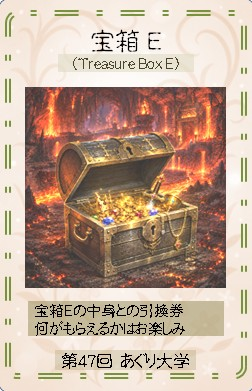
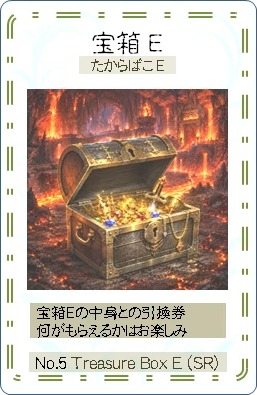
Open the treasure series and reward every 15 total login days
- Replace the treasure series card images with the new designs and add
  the chain spear card; boxes A-E are now SR and still give a ticket.
- The treasure series unlocks once two regular series are complete
  (not shown on the page) and stays open after that, with an unlock
  effect. The special skill series gets the same effect when boxes A-E
  are collected, and its unlock condition stays hidden.
- Count total login days and give one ticket every 15 days, shown in the
  login effect and the login note.

Rebuilt from the work in https://claude.ai/code/session_01QQwYBhyj5JkK6hfmZY1aA1,
which could not be pushed from there.

Claude-Session: https://claude.ai/code/session_01CyxEtkSZ8EztufXKaq5MJt

diff --git a/index.html b/index.html
@@ -613,18 +613,22 @@ window.addEventListener("error", e => showError(e.message));
 window.addEventListener("unhandledrejection", e => showError(String(e.reason && e.reason.message || e.reason)));
 const BOXES = ["boxa", "boxb", "boxc", "boxd", "boxe"];
 const boxesSealed = () => !!seriesOf.treasure.hidden;
+// 宝箱シリーズの解放条件: ふつうのシリーズを2つ以上コンプリートする(画面では明かさない)。
+// 一度解放したら treasureOpen を記録して、交換でカードが減っても閉じない
+const TREASURE_KEYS = ["work", "plant", "insect", "cow", "rebun"];
+const TREASURE_NEED = 2;
 const SERIES = [
   { id: "work",  name: "農作業", back: "back_work2" },
   { id: "plant", name: "植物", back: "back_plant_v2" },
   { id: "insect", name: "昆虫", back: "back_insect_v2" },
   { id: "cow",   name: "牛", back: "back_cow_v2" },
   { id: "rebun", name: "礼文島", back: "back_plant_v2" },
-  // unlock: (state) => true になったシリーズだけがガチャに入る。条件は未定なので今は常に閉じている
+  // unlock: (state) => true になったシリーズだけがガチャに入る
   // hidden: 封印中。ガチャにも図鑑にも出さない(カードのデータと集めた記録は残す)
-  { id: "treasure", name: "宝箱", back: "back_cow_v2", hidden: true },
-  // 宝箱A〜Eをすべて集めると解放される(宝箱は封印中)。特殊スキルガチャチケットでも引ける(取り方は画面では明かさない)
+  { id: "treasure", name: "宝箱", back: "back_cow_v2", unlock: st => !!st.treasureOpen, hint: "" },
+  // 宝箱A〜Eをすべて集めると、ふだんのガチャにも出るようになる。特殊スキルガチャチケットでも引ける(どちらも画面では明かさない)
   { id: "skill", name: "特殊スキル", back: "back", unlock: st => !boxesSealed() && BOXES.every(id => st.counts[id]),
-    get hint() { return boxesSealed() ? "" : `宝箱A〜Eをすべて集めると解放されます（あと${BOXES.filter(id => !state.counts[id]).length}種類）`; } },
+    hint: "" }, // 解放条件は画面では明かさない
 ];
 const CARDS = [
   { s: "work",  id: "plough",    name: "耕起1",     en: "Ploughing",           r: "N",   eff: "収量+10・メンタル−20・低温長雨回避C。春ターンのみ使える" },
@@ -695,19 +699,20 @@ const CARDS = [
   { s: "rebun", id: "rishiri_a",      name: "利尻富士（飛行機から）", en: "Rishiri-Fuji (A Ver.)", r: "R", eff: "成層火山・標高1721m・N45°10′ E141°15′" },
   { s: "rebun", id: "rishiri_r",      name: "利尻富士（礼文島から）", en: "Rishiri-Fuji (R Ver.)", r: "R", eff: "成層火山・標高1721m・N45°10′ E141°15′" },
   // ticket: 引くとチケットがもらえる枚数
-  { s: "treasure", id: "boxa",     name: "宝箱A",     en: "Treasure Box A", r: "N", ticket: 1, eff: "宝箱Aの中身との引換券。何がもらえるかはお楽しみ。引くとチケット+1枚" },
-  { s: "treasure", id: "boxb",     name: "宝箱B",     en: "Treasure Box B", r: "N", ticket: 1, eff: "宝箱Bの中身との引換券。何がもらえるかはお楽しみ。引くとチケット+1枚" },
-  { s: "treasure", id: "boxc",     name: "宝箱C",     en: "Treasure Box C", r: "N", ticket: 1, eff: "宝箱Cの中身との引換券。何がもらえるかはお楽しみ。引くとチケット+1枚" },
-  { s: "treasure", id: "boxd",     name: "宝箱D",     en: "Treasure Box D", r: "N", ticket: 1, eff: "宝箱Dの中身との引換券。何がもらえるかはお楽しみ。引くとチケット+1枚" },
-  { s: "treasure", id: "boxe",     name: "宝箱E",     en: "Treasure Box E", r: "N", ticket: 1, eff: "宝箱Eの中身との引換券。何がもらえるかはお楽しみ。引くとチケット+1枚" },
+  { s: "treasure", id: "boxa",     name: "宝箱A",     en: "Treasure Box A", r: "SR", ticket: 1, eff: "宝箱Aの中身との引換券。何がもらえるかはお楽しみ。引くとチケット+1枚" },
+  { s: "treasure", id: "boxb",     name: "宝箱B",     en: "Treasure Box B", r: "SR", ticket: 1, eff: "宝箱Bの中身との引換券。何がもらえるかはお楽しみ。引くとチケット+1枚" },
+  { s: "treasure", id: "boxc",     name: "宝箱C",     en: "Treasure Box C", r: "SR", ticket: 1, eff: "宝箱Cの中身との引換券。何がもらえるかはお楽しみ。引くとチケット+1枚" },
+  { s: "treasure", id: "boxd",     name: "宝箱D",     en: "Treasure Box D", r: "SR", ticket: 1, eff: "宝箱Dの中身との引換券。何がもらえるかはお楽しみ。引くとチケット+1枚" },
+  { s: "treasure", id: "boxe",     name: "宝箱E",     en: "Treasure Box E", r: "SR", ticket: 1, eff: "宝箱Eの中身との引換券。何がもらえるかはお楽しみ。引くとチケット+1枚" },
   { s: "treasure", id: "hinoki",   name: "ひのきの棒", en: "Cypress stick",  r: "N", eff: "宝箱Fの中身との引換券。何がもらえるかはお楽しみ" },
   { s: "treasure", id: "chimera",  name: "キメラのつばさ（偽）", en: "The Wings of the Chimera (Fake)", r: "N", eff: "キメラの翼の偽物。一瞬で移動などできない" },
   { s: "treasure", id: "suteteko", name: "ステテコパンツ", en: "Boxer Shorts", r: "N", eff: "誰かが脱ぎ捨てたパンツ。通気性があって蒸れない" },
-  { s: "treasure", id: "horsedung", name: "うまのふん", en: "Horse Manure",   r: "N", eff: "どこかの馬がみちばたにおとしたふん。ちょっとくさい" },
   { s: "treasure", id: "greatermimic", name: "人食い箱", en: "Greater Mimic", r: "R", eff: "ミミックが進化したもの。下級の冒険者を一口で喰らう" },
   { s: "treasure", id: "mimicbaby", name: "ちびミミック", en: "Mimic Baby",   r: "R", eff: "ミミックのこども。ちいさいが、ふたをあけると襲ってくる" },
-  { s: "treasure", id: "emptybox", name: "空の宝箱",   en: "Empty Treasure Box", r: "R", eff: "何も入っていない宝箱。中身は他の冒険者がもちさったようだ" },
+  { s: "treasure", id: "horsedung", name: "うまのふん", en: "Horse Manure",   r: "N", eff: "どこかの馬がみちばたにおとしたふん。ちょっとくさい" },
+  { s: "treasure", id: "kusarigama", name: "くさりがま", en: "Chain Spear",   r: "N", eff: "かまを外せば鉄のくさりになる。測量に使おう" },
   { s: "treasure", id: "mimic",    name: "ミミック",   en: "Mimic",          r: "R", eff: "宝箱に化けて、開けようとした冒険者を不意打ちで襲う魔物" },
+  { s: "treasure", id: "emptybox", name: "空の宝箱",   en: "Empty Treasure Box", r: "R", eff: "何も入っていない宝箱。中身は他の冒険者がもちさったようだ" },
   { s: "skill", id: "esper",     name: "エスパー", en: "Esper",             r: "SSR", eff: "災害回避+1ランク" },
   { s: "skill", id: "pureheart", name: "純心",     en: "Pure Heart",        r: "SSR",  eff: "好天時に収量+25" },
   { s: "skill", id: "farmer",    name: "篤農家",   en: "Exemplary farmer",  r: "SR",  eff: "基本収量+25%" },
@@ -888,7 +893,7 @@ async function enter(user) {
   }
   checkLogin(); render();
   const rewarded = grantComplete(state);
-  if (rewarded.length) { save(); celebrateComplete(completedSeries(state).filter(id => !rewarded.includes(id)), rewarded); }
+  if (rewarded.length || treasureNews) { save(); celebrateComplete(completedSeries(state).filter(id => !rewarded.includes(id)), rewarded); }
 }
 // 読み込んだ記録を state にする(名前と時刻は state に入れない)
 function useRemote(d) {
@@ -999,7 +1004,9 @@ function render() {
   $("sDraws").textContent = (state.lastDate === today() ? 0 : 1) + (state.tickets || 0) + (state.skillTickets || 0);
   $("sStreak").textContent = state.lastLogin === today() || state.lastLogin === yesterday() ? (state.loginStreak || 0) : 0;
   const nx = nextBonus(state.lastLogin === today() ? state.loginStreak || 0 : 0);
-  $("loginNote").textContent = `連続ログイン ${state.lastLogin === today() ? state.loginStreak || 0 : 0}日目 ・ 次のごほうび：${nx.day}日目にチケット+${nx.n}`;
+  const days = state.loginDays || 0;
+  $("loginNote").textContent = `連続ログイン ${state.lastLogin === today() ? state.loginStreak || 0 : 0}日目 ・ 次のごほうび：${nx.day}日目にチケット+${nx.n}` +
+    ` ・ 累計ログイン ${days}日（あと${TOTAL_EVERY - days % TOTAL_EVERY}日でチケット+1）`;
 
   $("shelf").replaceChildren(...SERIES.map(s => {
     const list = CARDS.filter(c => c.s === s.id);
@@ -1125,8 +1132,8 @@ async function pull(mode) {
   showCard(c, isNew, mode === "skill" ? "SKILL GET!" : useTicket ? "TICKET GET!" : "GET!");
   busy = false; render();
   celebrateComplete(doneBefore, rewarded);
-  const news = [c.ticket && `宝箱からチケット+${c.ticket}枚！`, unlocked && "宝箱A〜Eがそろった！ 特殊スキルシリーズが解放されました"].filter(Boolean);
-  if (news.length) toast(news.join(" "));
+  if (c.ticket) toast(`宝箱からチケット+${c.ticket}枚！`);
+  if (unlocked) celebrate({ kind: "unlock", series: "skill" });
 }
 const wait = ms => new Promise(r => setTimeout(r, ms));
 const kick = (el, cls) => { el.classList.remove(cls); void el.offsetWidth; el.classList.add(cls); };
@@ -1733,7 +1740,11 @@ const seriesDone = (st, id) => groupCards(id).every(c => (st.counts || {})[c.id]
 // そろっているまとまり。レア度ごとを先に並べて、同時にそろったときはシリーズまるごとの演出をあとに出す
 const completedSeries = st => [...RARITY_GROUPS.map(g => g.id), ...SERIES.map(s => s.id)].filter(id => seriesDone(st, id));
 // まだもらっていないコンプリートのごほうびを渡す。渡したシリーズを返す
+let treasureNews = false; // 宝箱シリーズが今解放された(演出を出す)
 function grantComplete(base) {
+  if (!base.treasureOpen && TREASURE_KEYS.filter(id => seriesDone(base, id)).length >= TREASURE_NEED) {
+    base.treasureOpen = true; treasureNews = true;
+  }
   base.completeRewards = base.completeRewards || [];
   const got = REWARD_SERIES.filter(id => !base.completeRewards.includes(id) && seriesDone(base, id));
   for (const id of got) { base.completeRewards.push(id); base.skillTickets = (base.skillTickets || 0) + 1; }
@@ -1743,6 +1754,7 @@ function grantComplete(base) {
 function celebrateComplete(before, rewarded) {
   const now = completedSeries(state);
   for (const id of now) if (!before.includes(id) || rewarded.includes(id)) celebrate({ kind: "complete", series: id, reward: rewarded.includes(id) });
+  if (treasureNews && state.treasureOpen) { treasureNews = false; celebrate({ kind: "unlock", series: "treasure" }); }
 }
 
 // 演出は順番に1つずつ。表紙・ガチャの演出・ほかのダイアログが終わってから出す
@@ -1759,6 +1771,14 @@ function playFx() {
       el("p", "fx-note", "「チケットで引く」で、好きなときにカードを引けます。"));
     flash("gold"); rain(["#ffd36b", "#fff3c4", "#ff9cc2", "#9fd0ff", "#ffffff"]);
     Sfx.play("fanfare"); Sfx.later(1000, "coin");
+  } else if (it.kind === "unlock") {
+    const s = seriesOf[it.series], img = el("img");
+    img.src = `cards/${s.back}.jpg`; img.alt = ""; img.style.setProperty("--k", 0);
+    const cards = el("div", "fx-cards"); cards.append(img);
+    const big = el("h2", "fx-big"); big.append("解放！", el("small", "", `${s.name}シリーズ`));
+    box.append(el("div", "fx-cap", "NEW SERIES"), big, cards, el("p", "fx-note", "ガチャから出るようになりました。図鑑で確かめてみましょう。"));
+    flash("gold"); rain(["#ffd36b", "#fff3c4", "#ff9cc2", "#9fd0ff", "#ffffff"]);
+    Sfx.play("fanfare");
   } else if (it.kind === "login") {
     const d = it.streak, from = Math.max(1, d - 6), days = el("div", "fx-days");
     for (let k = 0; k < 7; k++) {
@@ -1769,9 +1789,10 @@ function playFx() {
     }
     const big = el("h2", "fx-big"); big.append(`${d}日目！`, el("small", "", "連続ログイン"));
     box.append(el("div", "fx-cap", "LOGIN BONUS"), big, days);
-    if (it.n) box.append(el("div", "fx-gift", `ごほうび チケット+${it.n}枚`));
+    box.append(el("p", "fx-note", `累計ログイン ${it.days}日`));
+    if (it.n) box.append(el("div", "fx-gift", `ごほうび チケット+${it.n}枚` + (it.nt ? `（累計${it.days}日のごほうびをふくむ）` : "")));
     const nx = nextBonus(d);
-    box.append(el("p", "fx-note", `次のごほうび：${nx.day}日目にチケット+${nx.n}`));
+    box.append(el("p", "fx-note", `次のごほうび：連続${nx.day}日目にチケット+${nx.n} ・ 累計はあと${TOTAL_EVERY - it.days % TOTAL_EVERY}日でチケット+1`));
     if (it.n) { flash("gold"); rain(["#ffd36b", "#fff3c4", "#ff9cc2", "#ffffff"]); Sfx.later((Math.min(d, 7) * 0.12 + 0.5) * 1000, "coin"); }
   } else {
     const g = groupOf(it.series), s = seriesOf[g.s], cards = el("div", "fx-cards");
@@ -2187,17 +2208,23 @@ async function redeemInner() {
 }
 
 // 連続ログインのごほうび: 3日ごとに1枚、7日ごとに1枚、30日ごとに2枚(重なった日は合計)
+// 累計ログインのごほうび: 連続が途切れても、通算15日ごとにチケット1枚
+const TOTAL_EVERY = 15;
+const totalBonus = d => d > 0 && d % TOTAL_EVERY === 0 ? 1 : 0;
 function loginBonus(d) { return (d % 3 === 0 ? 1 : 0) + (d % 7 === 0 ? 1 : 0) + (d % 30 === 0 ? 2 : 0); }
 function nextBonus(d) { let k = d + 1; while (!loginBonus(k)) k++; return { day: k, n: loginBonus(k) }; }
 // その日はじめて開いたときに1回だけ数える(アカウントの記録を読み込んでから呼ぶ)
 function checkLogin() {
   if (state.lastLogin === today()) return render();
+  // 累計を数え始める前からの人は、今の連続ログイン日数から数える
+  if (state.loginDays == null) state.loginDays = state.lastLogin === yesterday() ? state.loginStreak || 0 : 0;
   state.loginStreak = state.lastLogin === yesterday() ? (state.loginStreak || 0) + 1 : 1;
+  state.loginDays += 1;
   state.lastLogin = today();
-  const n = loginBonus(state.loginStreak);
-  if (n) state.tickets = (state.tickets || 0) + n;
+  const n = loginBonus(state.loginStreak), nt = totalBonus(state.loginDays);
+  if (n + nt) state.tickets = (state.tickets || 0) + n + nt;
   save(); render();
-  celebrate({ kind: "login", streak: state.loginStreak, n });
+  celebrate({ kind: "login", streak: state.loginStreak, n: n + nt, days: state.loginDays, nt });
 }
 function toast(msg) {
   $("toast").textContent = msg; $("toast").hidden = false;
